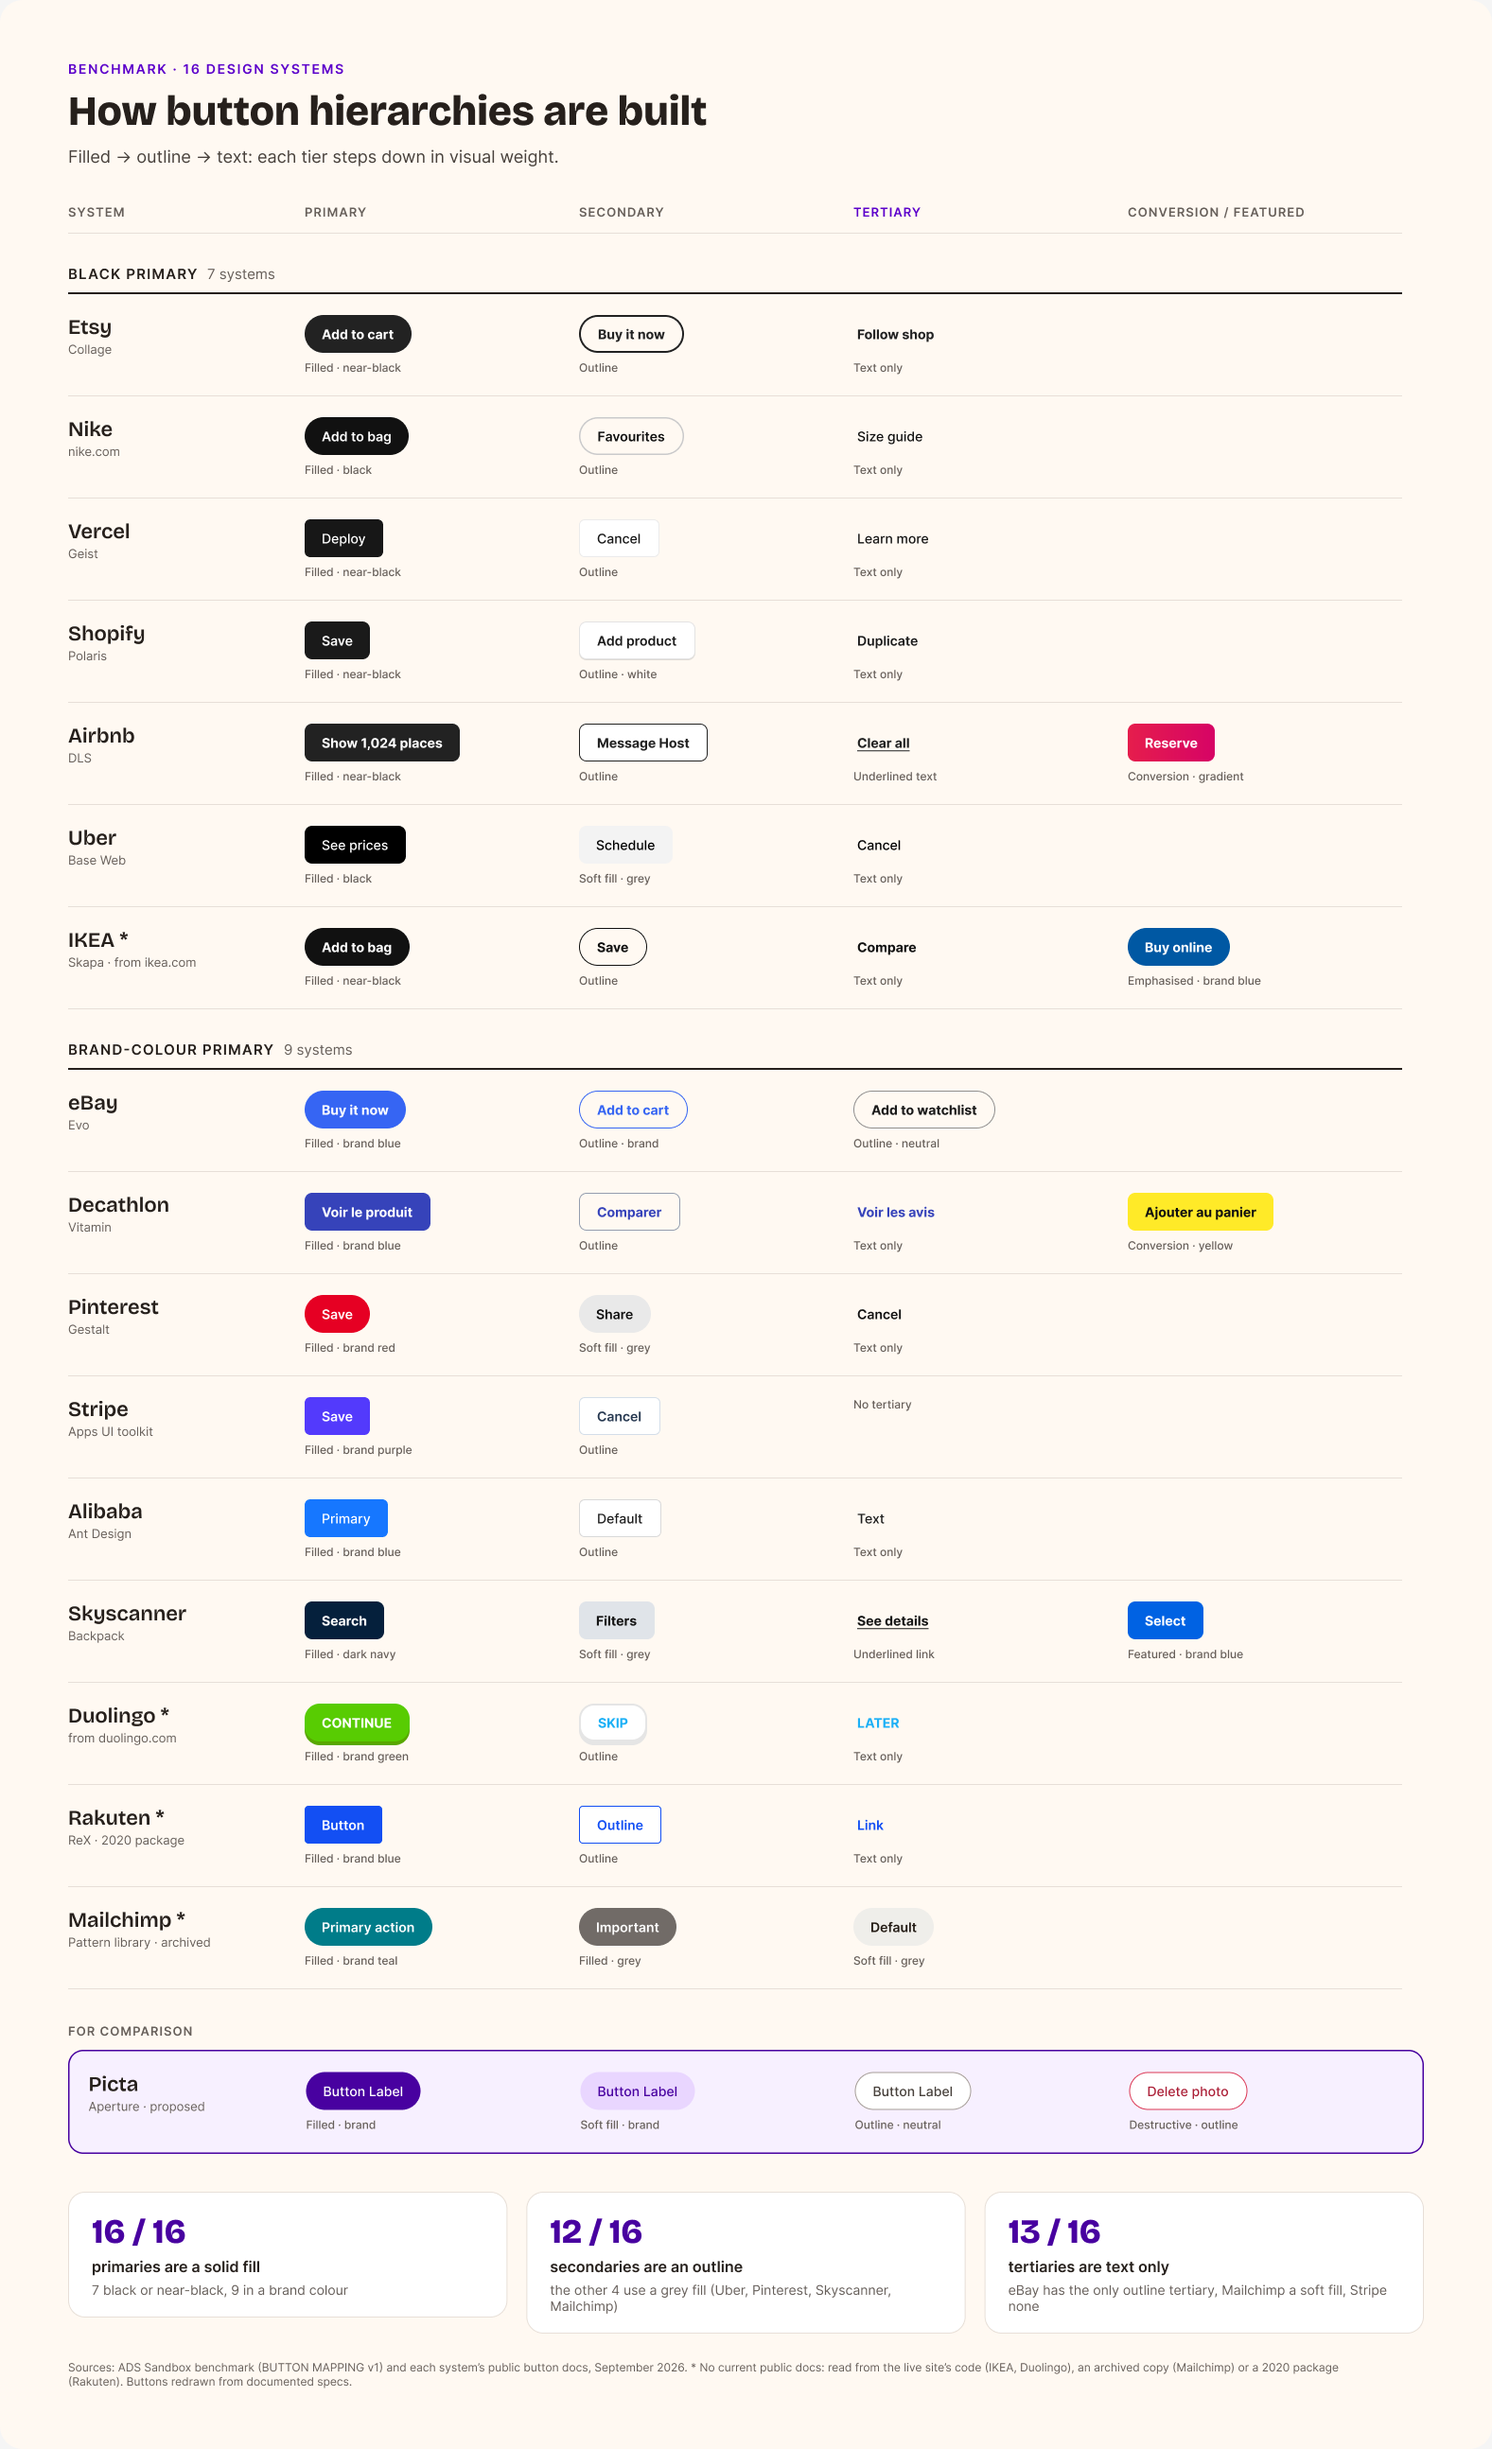
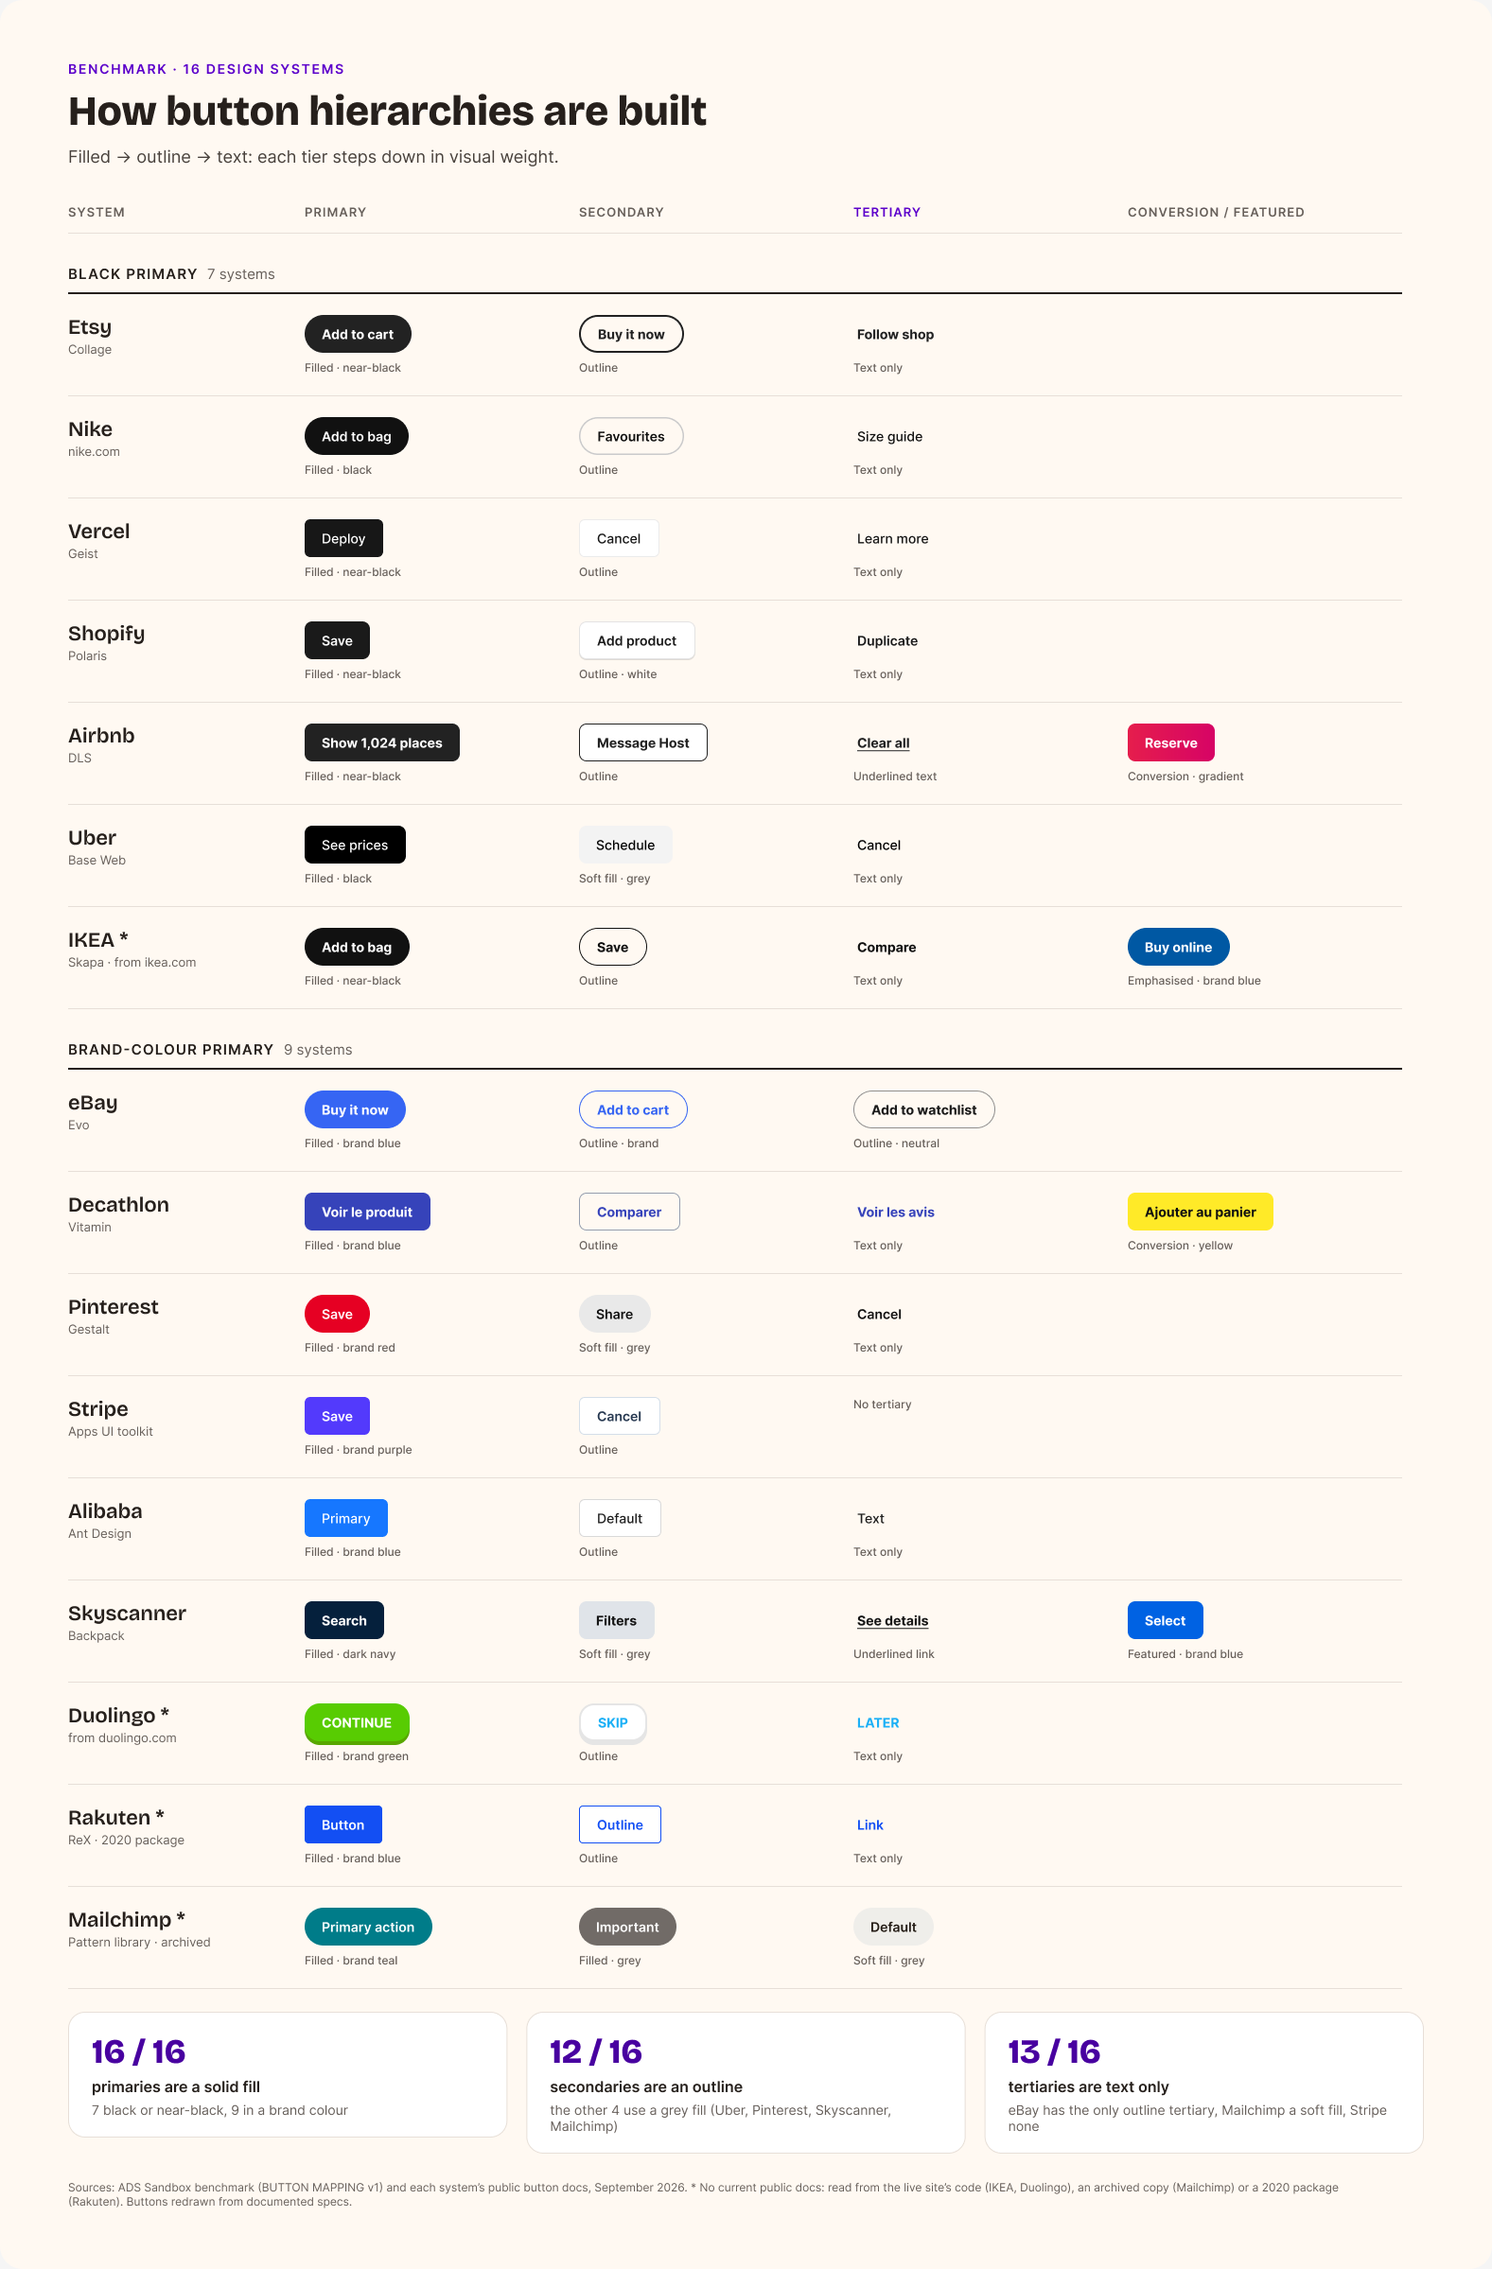
Before/after screens from Figma, spec colours, benchmark without old Picta row
- Two before/after slides using Figma exports (originals vs presentation hierarchy)
- Grey secondary border now border-neutral-02 (#7C746E) to match the Figma spec
- Remove the outdated Picta comparison row from the benchmark image
- Rename end summary slide eyebrow to 'In summary'

diff --git a/buttons/index.html b/buttons/index.html
@@ -403,7 +403,7 @@ ul.pc li.con::before{content:"✕";color:var(--pink)}
           </div>
           <p class="kicker">Etsy, Nike, Vercel, Shopify, eBay, Decathlon, Airbnb, Uber, Pinterest, Stripe, Alibaba, Skyscanner, IKEA, Duolingo, Rakuten, Mailchimp. Scroll the image for every system.</p>
         </div>
-        <div class="bench-scroll"><img src="assets/benchmark-button-hierarchies.png?v=16" alt="Matrix of primary, secondary, tertiary and other buttons across 16 design systems, with an earlier Picta proposal for comparison" /></div>
+        <div class="bench-scroll"><img src="assets/benchmark-button-hierarchies.png?v=17" alt="Matrix of primary, secondary, tertiary and other buttons across 16 design systems" /></div>
       </div>
     </div>
   </section>
@@ -444,7 +444,7 @@ ul.pc li.con::before{content:"✕";color:var(--pink)}
         </div>
         <div class="opt chosen">
           <span class="tag solid">Proposed</span>
-          <div class="btn-demo" style="border-color:#A59D97;color:#171717">Button Label</div>
+          <div class="btn-demo" style="border-color:#7C746E;color:#171717">Button Label</div>
           <h4>Grey outline</h4>
           <ul class="pc">
             <li class="pro">The neutral outline brand-colour systems use</li>
@@ -491,7 +491,7 @@ ul.pc li.con::before{content:"✕";color:var(--pink)}
       <h3>The lightest tertiary, and the most common one.</h3>
       <div class="ladder-row ladder-lg">
         <span class="lad"><span class="btn-demo p">Button Label</span><small>Primary</small></span>
-        <span class="lad"><span class="btn-demo" style="border-color:#A59D97;color:#171717">Button Label</span><small>Secondary</small></span>
+        <span class="lad"><span class="btn-demo" style="border-color:#7C746E;color:#171717">Button Label</span><small>Secondary</small></span>
         <span class="lad"><span class="btn-demo" style="border-color:transparent;background:transparent;color:#4801A0;padding:0 10px">Button Label</span><small>Tertiary</small></span>
       </div>
       <div class="cols c3" style="margin-top:2rem">
@@ -537,14 +537,30 @@ ul.pc li.con::before{content:"✕";color:var(--pink)}
     </div>
   </section>
 
-  <!-- 12 — ORIGINAL VS RETROFITTED -->
+  <!-- 12 — ORIGINAL VS RETROFITTED (1/2) -->
   <section class="slide">
     <div class="wrap wide">
-      <div class="eyebrow"><span class="num">12</span> On real screens</div>
-      <h3>Original screens, and the same screens retrofitted.</h3>
-      <div class="cols c2" style="margin-top:1.6rem">
-        <div class="img-ph">Original screens<small>To add</small></div>
-        <div class="img-ph">Retrofitted with the new hierarchy<small>To add</small></div>
+      <div class="eyebrow"><span class="num">12</span> On real screens · before and after</div>
+      <h3>The same screens, with the new hierarchy.</h3>
+      <div class="screens-row">
+        <figure><img src="assets/orig-book-ready.png" alt="Your book is ready, before"><figcaption><strong>Before</strong>Soft fill Edit My Book, filled Share</figcaption></figure>
+        <figure><img src="assets/new-book-ready.png" alt="Your book is ready, after"><figcaption><strong>After</strong>Edit My Book and Share in grey outline, Regenerate as text</figcaption></figure>
+        <figure><img src="assets/orig-selection.png" alt="Photo selection, before"><figcaption><strong>Before</strong>Orange Save &amp; Exit, soft fill Select All</figcaption></figure>
+        <figure><img src="assets/new-selection.png" alt="Photo selection, after"><figcaption><strong>After</strong>Save &amp; Exit and Select All as text, Share in grey outline</figcaption></figure>
+      </div>
+    </div>
+  </section>
+
+  <!-- 12 — ORIGINAL VS RETROFITTED (2/2) -->
+  <section class="slide">
+    <div class="wrap wide">
+      <div class="eyebrow"><span class="num">12</span> On real screens · before and after</div>
+      <h3>The same screens, with the new hierarchy.</h3>
+      <div class="screens-row">
+        <figure><img src="assets/orig-cover.png" alt="Design your cover, before"><figcaption><strong>Before</strong>Regenerate and Add Photo as soft fills</figcaption></figure>
+        <figure><img src="assets/new-cover.png" alt="Design your cover, after"><figcaption><strong>After</strong>Regenerate and Add Photo as text</figcaption></figure>
+        <figure><img src="assets/orig-confirmation.png" alt="Order confirmation, before"><figcaption><strong>Before</strong>Soft fill Create account</figcaption></figure>
+        <figure><img src="assets/new-confirmation.png" alt="Order confirmation, after"><figcaption><strong>After</strong>Create account in grey outline</figcaption></figure>
       </div>
     </div>
   </section>
@@ -633,11 +649,11 @@ ul.pc li.con::before{content:"✕";color:var(--pink)}
   <section class="slide">
     <div class="blob b1"></div>
     <div class="wrap">
-      <div class="eyebrow"><span class="chapter">In one slide</span></div>
+      <div class="eyebrow"><span class="chapter">In summary</span></div>
       <h2 class="title">A <span class="grad">grey outline</span> secondary. A <span class="grad">text-only</span> tertiary.</h2>
       <div class="ladder-row ladder-lg">
         <span class="lad"><span class="btn-demo p">Button Label</span><small>Primary · unchanged</small></span>
-        <span class="lad"><span class="btn-demo" style="border-color:#A59D97;color:#171717">Button Label</span><small>Secondary · grey outline</small></span>
+        <span class="lad"><span class="btn-demo" style="border-color:#7C746E;color:#171717">Button Label</span><small>Secondary · grey outline</small></span>
         <span class="lad"><span class="btn-demo" style="border-color:transparent;background:transparent;color:#4801A0;padding:0 10px">Button Label</span><small>Tertiary · text only</small></span>
         <span class="lad"><span class="btn-demo" style="border-color:#E993A9;color:#AC2038">Delete photo</span><small>Destructive · outline</small></span>
       </div>
